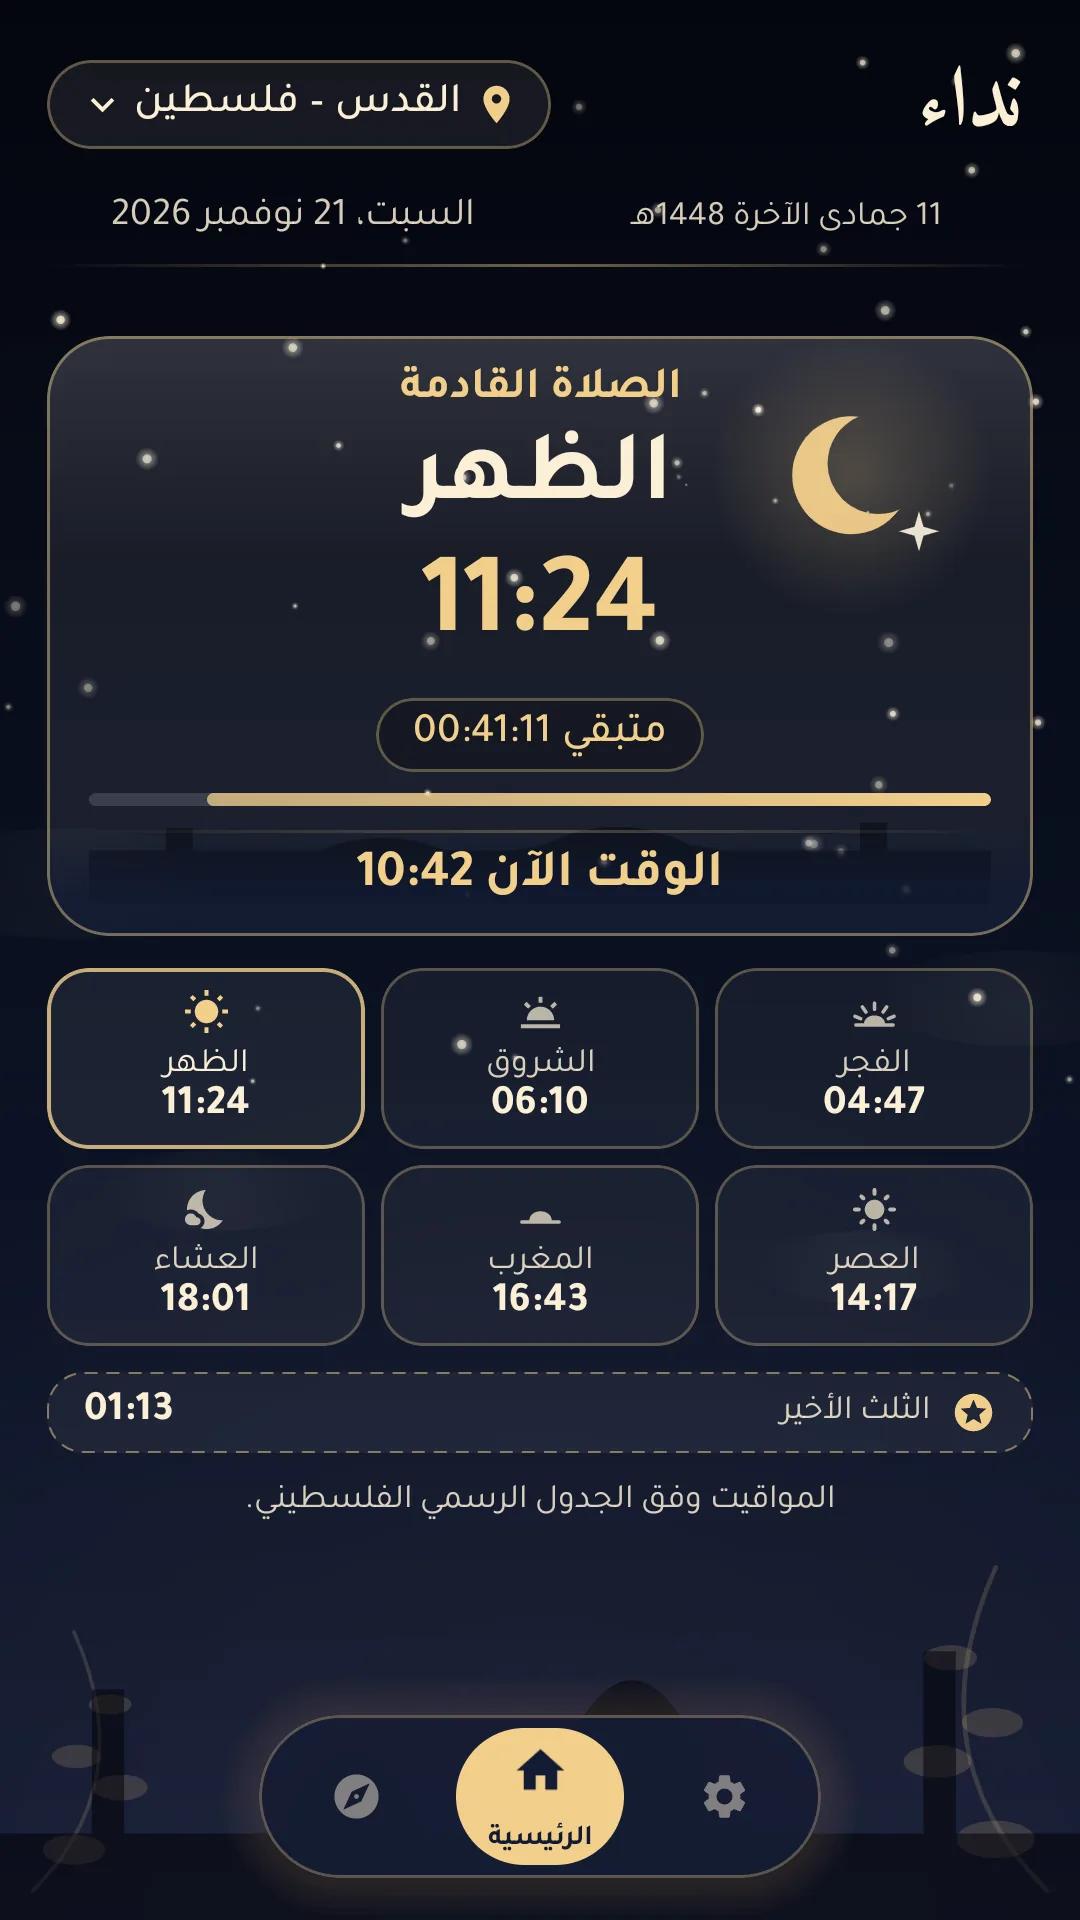
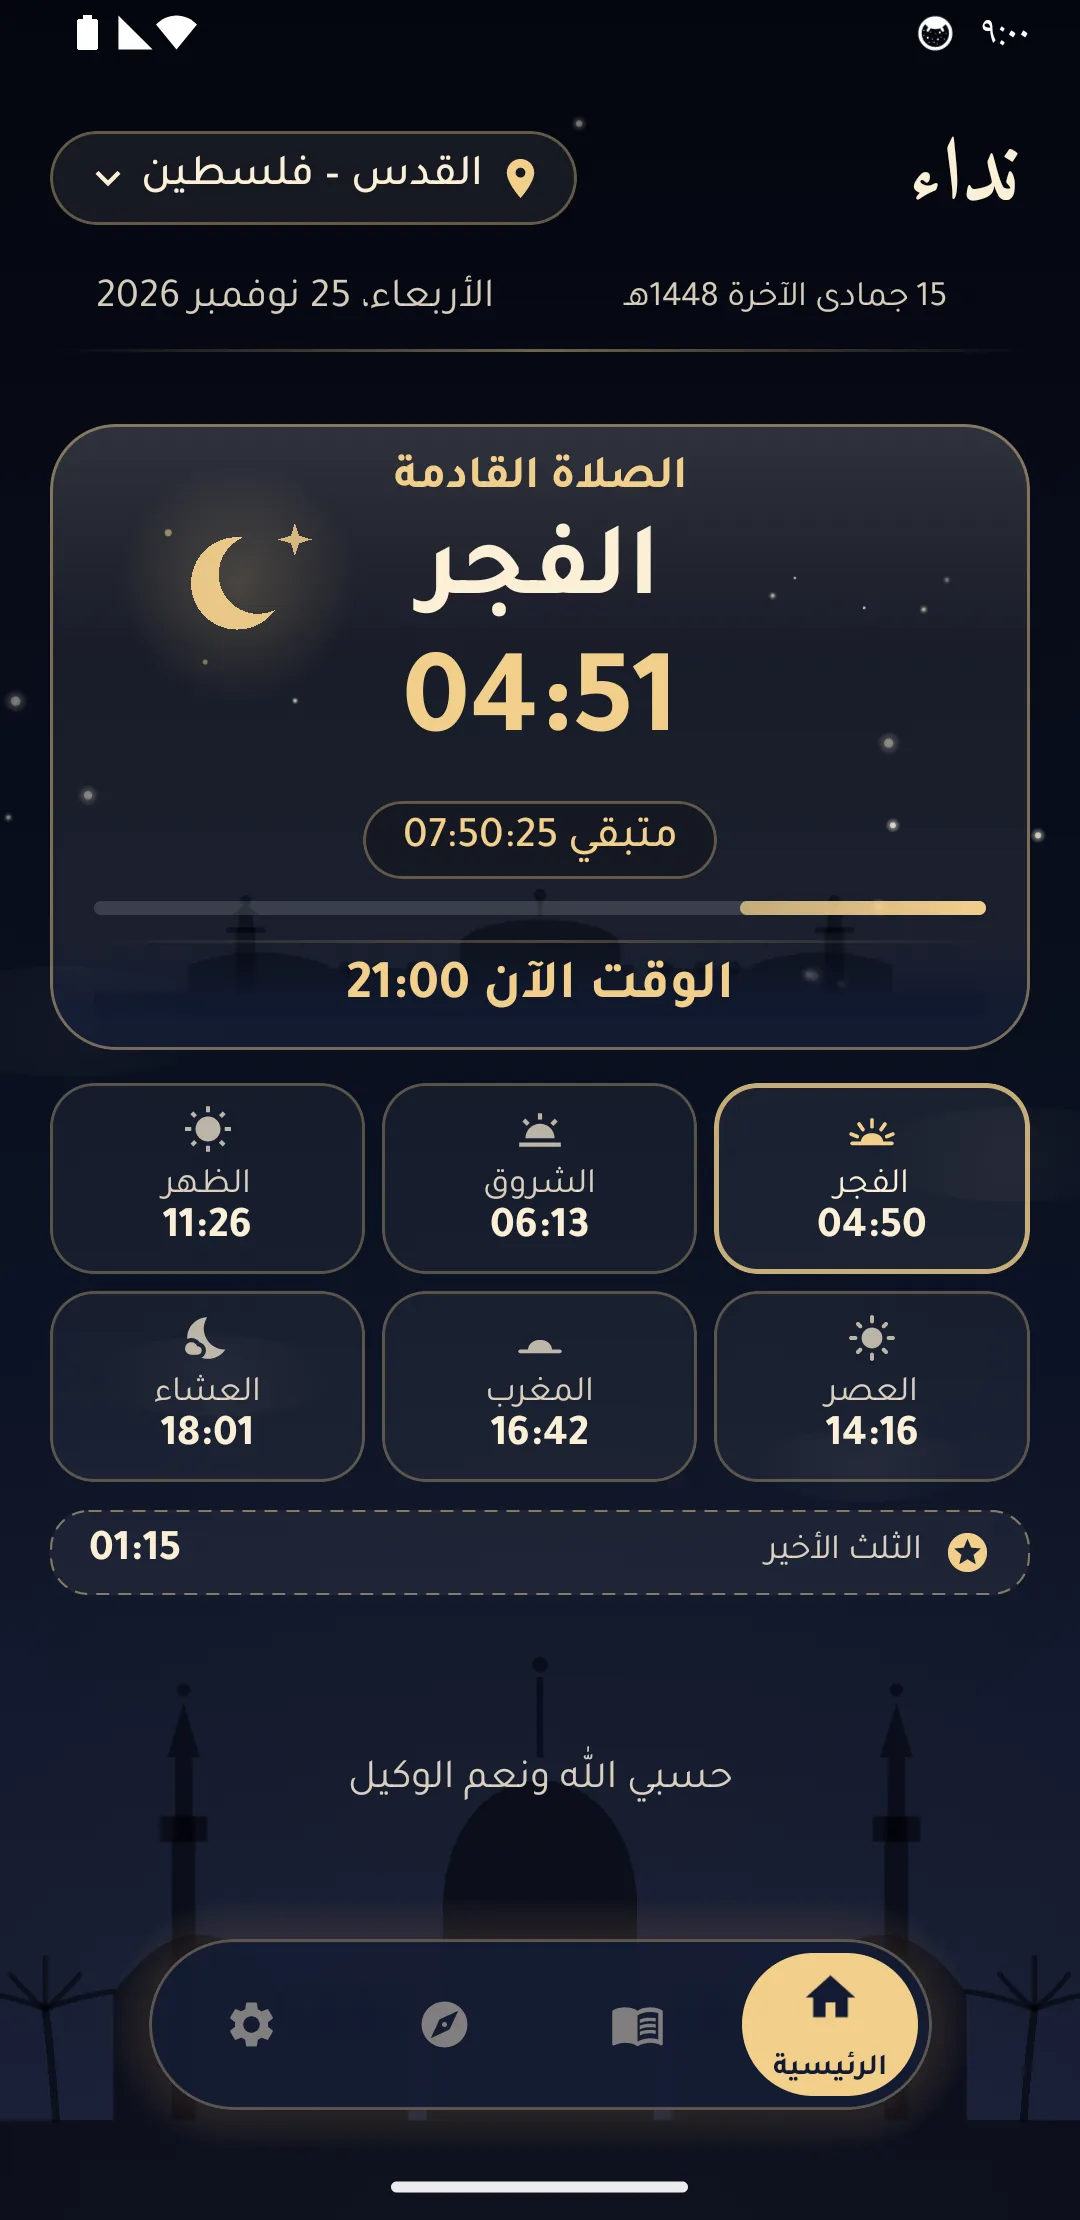
docs: refresh every app screenshot from the 2.2.1 build
The published shots predate the settings accordions, the adhkar tab, the
About dialog and the clock widget, so the README no longer showed the
shipped interface.

Generated with Codebuff 🤖

diff --git a/README.md b/README.md
@@ -23,12 +23,12 @@
   </tr>
   <tr>
     <td align="center" width="50%">
-      <img src="docs/screenshots/05_settings_top.webp" width="250" alt="أعلى الإعدادات — المدينة واللغة ونظام الساعة والمظهر ووضع العرض"><br>
-      <b>الإعدادات — المدينة، اللغة، نظام الساعة، المظهر، وضع العرض</b>
+      <img src="docs/screenshots/05_settings_top.webp" width="250" alt="الإعدادات — المواقيت والتنبيهات ومحتوى الشاشة الرئيسية والتخصيص وعن التطبيق"><br>
+      <b>الإعدادات — المواقيت، التنبيهات، محتوى الشاشة الرئيسية، التخصيص، عن التطبيق</b>
     </td>
     <td align="center" width="50%">
-      <img src="docs/screenshots/06_settings_appearance.webp" width="250" alt="الإعدادات — المظهر ووضع العرض جوال أو تلفاز وحجم الخط"><br>
-      <b>الإعدادات — المظهر، وضع العرض (جوال / تلفاز)، حجم الخط</b>
+      <img src="docs/screenshots/06_settings_appearance.webp" width="250" alt="الإعدادات — اللغة والمظهر ووضع العرض جوال أو تلفاز"><br>
+      <b>الإعدادات — اللغة، المظهر، وضع العرض (جوال / تلفاز)</b>
     </td>
   </tr>
   <tr>
@@ -47,8 +47,8 @@
       <b>بطاقات الصلوات — لكل صلاة مفتاح ووضع (أذان / صامت / اهتزاز)</b>
     </td>
     <td align="center" width="50%">
-      <img src="docs/screenshots/07_settings_widget_updates.webp" width="250" alt="الإعدادات — التحديثات والتوقيت الصيفي ولغة الويدجت"><br>
-      <b>التحديثات — التحقق التلقائي و«تحقق الآن»، التوقيت الصيفي، لغة الويدجت</b>
+      <img src="docs/screenshots/07_settings_widget_updates.webp" width="250" alt="الإعدادات — التحديثات: التحقق التلقائي و«تحقق الآن»"><br>
+      <b>التحديثات — التحقق التلقائي و«تحقق الآن»</b>
     </td>
   </tr>
   <tr>
@@ -67,14 +67,14 @@
       <b>اتجاه القبلة — البوصلة، المسافة إلى الكعبة، تلميح المعايرة</b>
     </td>
     <td align="center" width="50%">
-      <img src="docs/screenshots/14_about.webp" width="250" alt="شاشة حول التطبيق — نداء الإصدار 2.1.0"><br>
-      <b>حول التطبيق — نداء · Nidaa، الإصدار ٢٫١٫٠</b>
+      <img src="docs/screenshots/14_about.webp" width="250" alt="نافذة حول التطبيق — نداء الإصدار 2.2.1"><br>
+      <b>حول التطبيق (نافذة) — نداء · Nidaa، الإصدار ٢٫٢٫١</b>
     </td>
   </tr>
   <tr>
     <td align="center" width="50%">
-      <img src="docs/screenshots/15_widget_home.webp" width="250" alt="ويدجت الشاشة الرئيسية — الصلاة القادمة والعدّاد"><br>
-      <b>الويدجت — الصلاة القادمة والعدّاد المتبقي</b>
+      <img src="docs/screenshots/15_widget_home.webp" width="250" alt="ويدجت الشاشة الرئيسية — ساعة اليوم والصلوات القادمة والعدّاد"><br>
+      <b>الويدجت — ساعة اليوم، والصلاة القادمة والعدّاد المتبقي</b>
     </td>
     <td align="center" width="50%"></td>
   </tr>
@@ -128,7 +128,7 @@
 ## المتطلبات
 
 - **أندرويد ٧٫٠ (API 24) أو أحدث** — `minSdk 24`، و`targetSdk 36`.
-- مساحة تخزين تكفي لحجم الـ APK (نحو ٢٠–٣٠ ميجابايت).
+- مساحة تخزين تكفي لحجم الـ APK (نحو ١٢ ميجابايت).
 - لا يحتاج إنترنت للعمل؛ الإنترنت مطلوب فقط للتحقق من التحديثات إن فعّلتها.
 - لا يطلب صلاحية الموقع، ولا صلاحية جهات الاتصال، ولا أي صلاحية حساسة.
 
